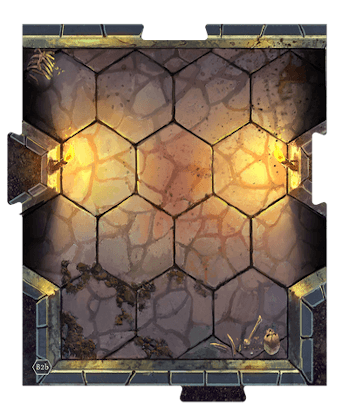
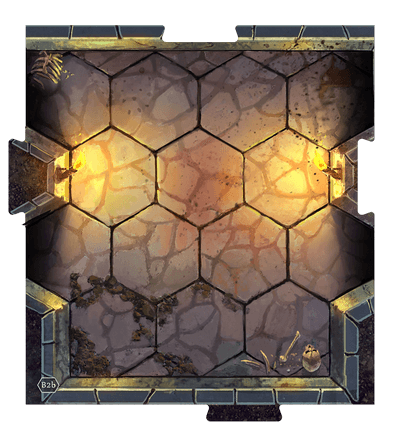
Re-normalizes A tile set to new standard

diff --git a/static/scss/main.scss b/static/scss/main.scss
@@ -44,13 +44,13 @@ $hexRotation: 60deg;
 
         $tiles:
             ('a1a', -2px, 41px)
-            ('a1b', -19px, 46px)
-            ('a2a', -3px, 46px)
-            ('a2b', -18px, 46px)
-            ('a3a', -3px, 46px)
-            ('a3b', -18px, 46px)
-            ('a4a', -3px, 46px)
-            ('a4b', -18px, 46px)
+            ('a1b', -19px, 39px)
+            ('a2a', -20px, 20px)
+            ('a2b', -20px, 20px)
+            ('a3a', -20px, 20px)
+            ('a3b', -20px, 20px)
+            ('a4a', -20px, 20px)
+            ('a4b', -20px, 20px)
 
             ('b1a', -21px, -53px)
             ('b1b', -21px, -53px)
@@ -66,10 +66,10 @@ $hexRotation: 60deg;
             ('c2a', -61px, -45px)
             ('c2b', -61px, -45px)
 
-            ('d1a', -59px, -50x)
-            ('d1b', -59px, -50x)
-            ('d2a', -59px, -50x)
-            ('d2b', -59px, -50x)
+            ('d1a', -59px, -50px)
+            ('d1b', -59px, -50px)
+            ('d2a', -59px, -50px)
+            ('d2b', -59px, -50px)
 
             ('e1a', 12px, -44px)
             ('e1b', 12px, -44px)
